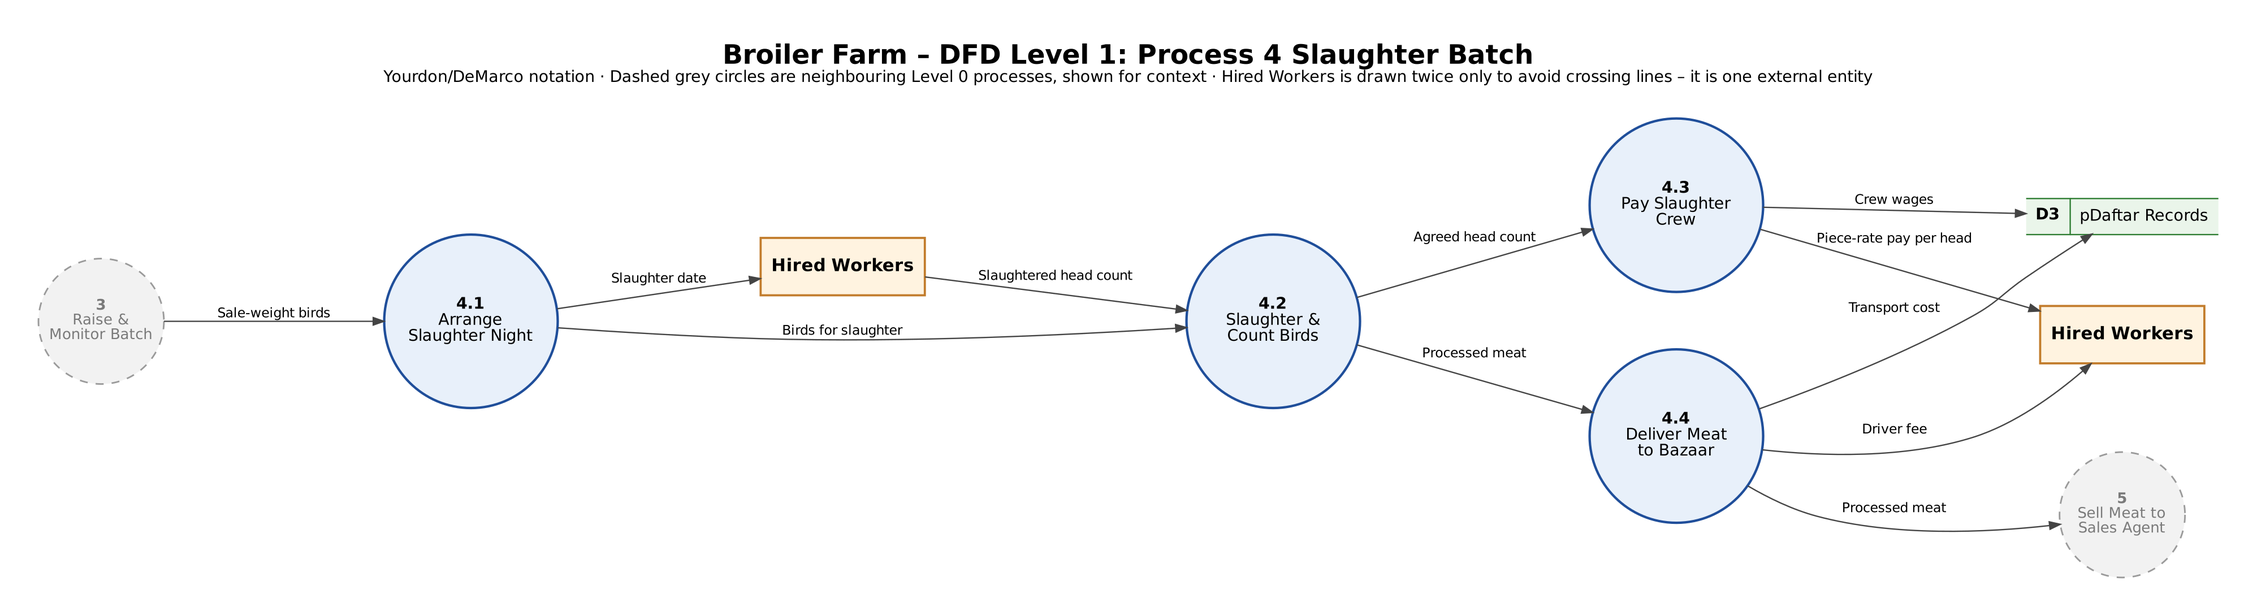
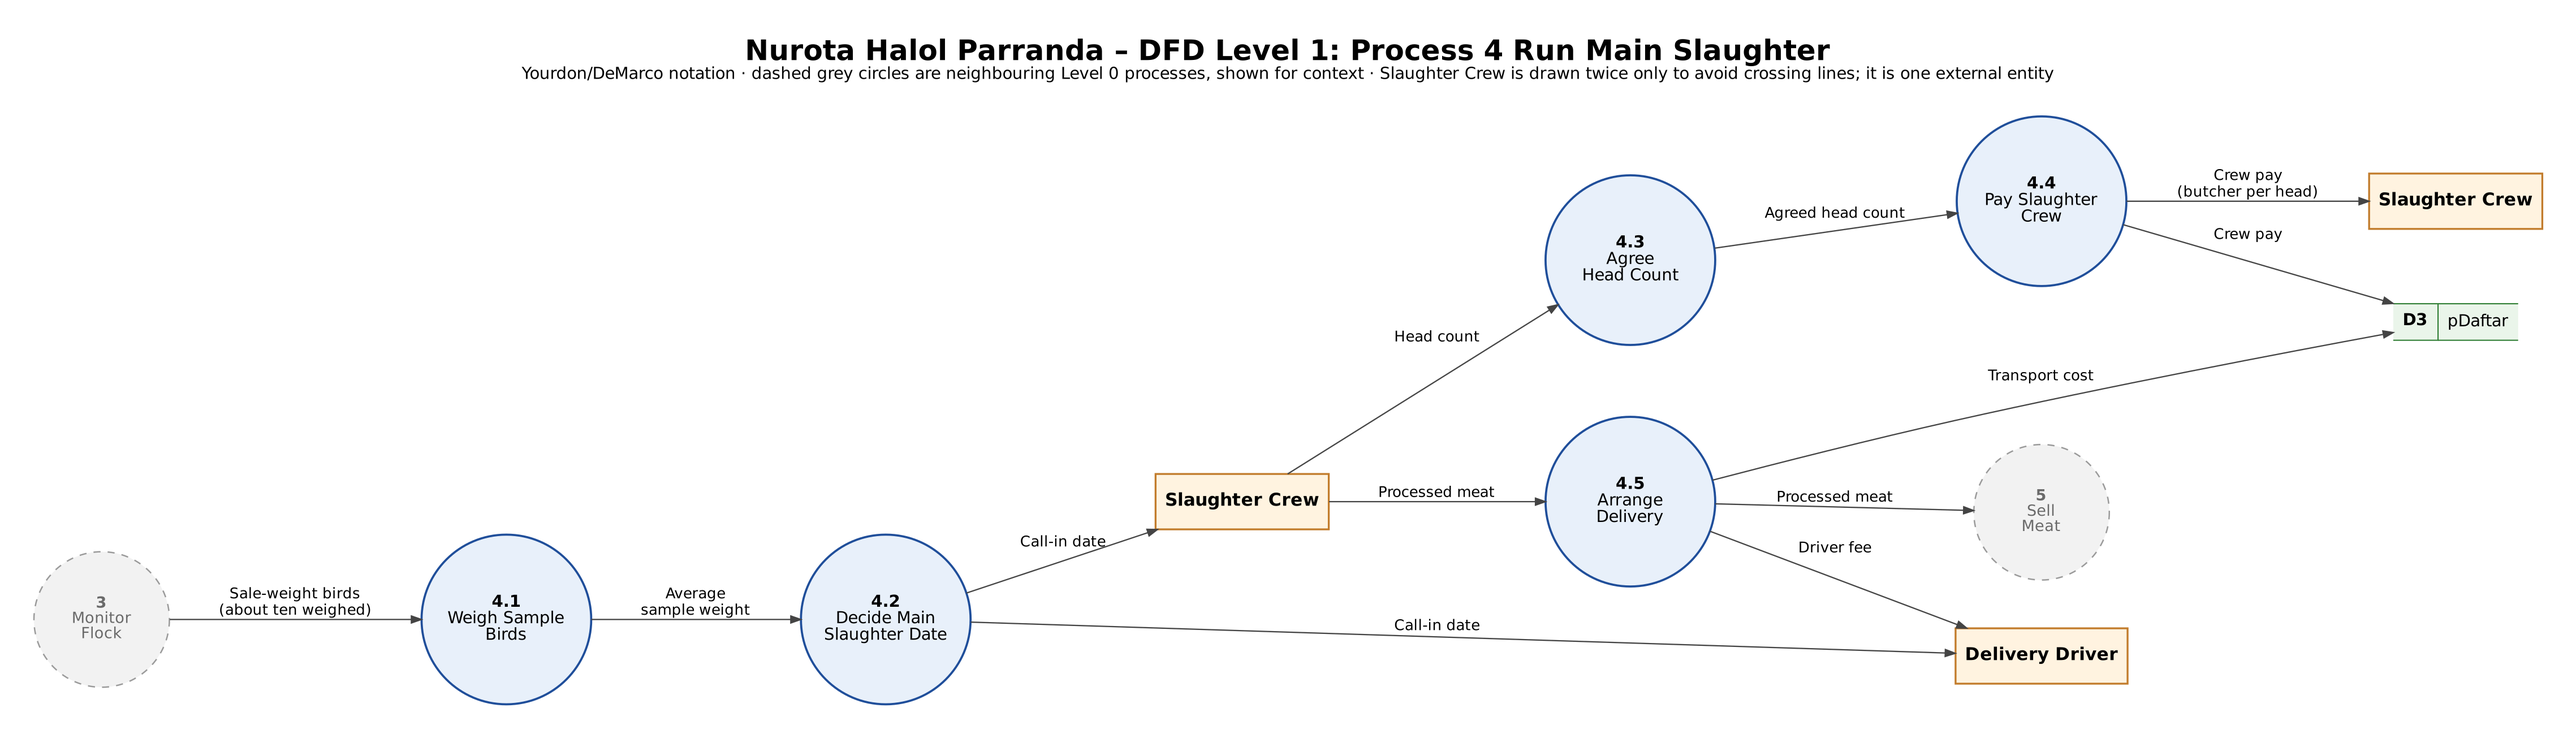
Update DFD and activity diagram to match business case and use case names

diff --git a/4-data-flow-diagram.md b/4-data-flow-diagram.md
@@ -1,39 +1,41 @@
 # Data Flow Diagram
 
-The diagrams below illustrate how data flows across the farm as it operates today. The farm serves as the system boundary. The processes are carried out by the director, permanent personnel, and a worker who registers weights at the bazaar. The chick provider, the feed supplier, the hired slaughter crew and driver, and the sales agent are all outside the farm and appear as separate organisations.
+The diagrams show how Nurota Halol Parranda handles its data today, without any computer system. The boundary is the farm itself. The Director and the Workers carry out every process inside it, so neither appears as an external entity. Outside are the two suppliers, the Slaughter Crew and the Delivery Driver who are hired for each slaughter, and the three buyers: the Bazaar Agent, the Nurata Seller and the Shop Customer. The Delivery Driver is not an actor in the use case diagram, but he is drawn here because the farm sends him a call-in date and a fee.
 
-The farm keeps its records in five places: the director's paper notebook, camera footage, the pDaftar app on his phone, weight images received over Telegram, and the farm's own weight tally.
+The farm's records end up in five places: the Director's paper notebook, the camera footage, the pDaftar app on his phone, the weight photos the Bazaar Agent sends on Telegram, and the tally a Worker keeps while the meat is weighed at the bazaar. None of them is linked to another.
 
 ## Level 0
 
-![DFD Level 0 of the broiler farm](diagrams/dfd-level0.png)
+![DFD Level 0 of the farm's current system](diagrams/dfd-level0.png)
 
-*Figure 5.1. DFD Level 0 of the broiler farm (current system)*
+*Figure 4.1: DFD Level 0, the farm's current system*
 
-All financial information ends up in pDaftar (D3). Processes 1, 2, and 4 write costs, process 5 writes revenue, and process 6 reads both to calculate a batch's profit. Mortality and feed usage are only recorded in the paper notebook (D1) and never factored into the profit calculation; thus, the farm cannot determine the cost per bird or how efficiently feed is used. The head count from the slaughter team determines how much the crew is paid, although it is not recorded elsewhere.
+Every money figure goes into pDaftar (D3). Processes 1, 2 and 4 add costs, process 5 adds sales income, and process 6 reads both back to get the profit of a batch. Chick deaths and feed use go only into the notebook (D1), and no process reads them back, so they never reach the profit figure and the farm cannot see the cost per bird or how much feed a batch really used. This matches the business case, where decisions rest on the Director's experience rather than on these records. The head count that sets the crew's pay comes in from the crew and is turned straight into a payment without being written down.
 
-Process 6 has no Level 1 diagram because it is a single calculation: it reads costs and revenue from pDaftar and writes the batch profit back.
+Processes 1, 2 and 6 are not broken down further. Each order is a single exchange with one supplier, paid by bank transfer under the standing contract, and process 6 is one calculation made from figures already in pDaftar.
 
-## Level 1: Process 3 Raise & Monitor Batch
+The early cull of sick chicks around day 25, the slaughter of about 4,000 birds around day 35–40 and the small client orders of 50–100 birds are not drawn. The farm has not yet confirmed what each of these records or who buys those birds, so only the main slaughter is modelled.
+
+## Level 1: Process 3 Monitor Flock
 
 ![DFD Level 1 for process 3](diagrams/dfd-level1-process3.png)
 
-*Figure 5.2. DFD Level 1, Process 3 Raise & Monitor Batch*
+*Figure 4.2: DFD Level 1, Process 3 Monitor Flock*
 
-Workers inspect the residences in person, while the director examines them via cameras (3.2). Workers inform the director how many chicks died, and he records the information in his notebook (3.3). He records feed usage in the same notebook (3.4). The mortality record so relies on one person writing down what he was informed.
+Workers check each house every 15–30 minutes (3.1). When one of them finds a dead chick he tells the Director, who writes it in the notebook (3.3), and feed use goes into the same notebook (3.4). The death count passes through two people and a spoken message before it is written down, which is why the business case calls it approximate. The cameras record the houses (3.2), but the footage stays in the monitoring app and feeds nothing else, so it adds no record the farm can use later.
 
-## Level 1: Process 4 Slaughter Batch
+## Level 1: Process 4 Run Main Slaughter
 
 ![DFD Level 1 for process 4](diagrams/dfd-level1-process4.png)
 
-*Figure 5.3. DFD Level 1, Process 4 Slaughter Batch*
+*Figure 4.3: DFD Level 1, Process 4 Run Main Slaughter*
 
-The director determines the slaughter date (4.1). The hired staff slaughters the birds and records how many are processed (4.2). They are paid per head (4.3), and a driver hired for the nite transports the meat to the bazaar for a one-time price (4.4). Crew wages and transportation costs are entered into pDaftar separately, however the head count for the wages is only agreed upon verbally.
+Process 4 brings together four use cases from section 2: Decide Main Slaughter Date, Run Main Slaughter, Pay Slaughter Crew per Head and Arrange Delivery. The Director weighs about ten birds (4.1) and uses their average to decide whether to call in the crew and the driver now or wait three to five more days (4.2). After the session the crew reports how many birds it slaughtered, the Director accepts that count verbally (4.3) and pays the crew from it, with the butcher paid per head (4.4). Only the payment reaches pDaftar. The count behind it is never recorded, so a wrong count cannot be checked later. The driver's fee for taking the meat to the bazaar (4.5) goes into pDaftar as well.
 
-## Level 1: Process 5 Sell Meat to Sales Agent
+## Level 1: Process 5 Sell Meat
 
 ![DFD Level 1 for process 5](diagrams/dfd-level1-process5.png)
 
-*Figure 5.4. DFD Level 1, Process 5 Sell Meat to Sales Agent*
+*Figure 4.4: DFD Level 1, Process 5 Sell Meat*
 
-The sales representative is a self-employed merchant. The farm only has one buyer instead of seven or nine since he purchases the meat for slightly less than the bazaar price and resells it to his own vendors. A farm worker records each scale reading as he weighs the meat (5.3, D5). On Telegram, the agent posts a picture of his own totals (5.4, D4). To determine the revenue, he reports in pDaftar (5.6), the director multiplies the confirmed kilos by the agreed price after comparing the two totals (5.5). This comparison is the only check the farm has on the agent's figures.
+The meat goes to three buyers (5.2), and the farm treats them very differently. The Bazaar Agent, an independent middleman who resells to seven to nine other sellers, takes the largest share. His price per kg is agreed verbally at that day's bazaar rate (5.1). While he weighs the meat, a Worker writes down every reading (5.3), and the agent later sends his own totals as a photo on Telegram (5.4). The Director compares the two totals (5.5) and only then works out what the agent owes, the confirmed kilograms times the agreed price (5.6). The Nurata Seller and the Shop Customer pay the farm directly, and that income goes into pDaftar with the rest (5.7). The farm has not yet confirmed how it measures the meat these two take.

diff --git a/5-activity-diagram.md b/5-activity-diagram.md
@@ -1,13 +1,13 @@
 # Activity Diagram
 
-One batch's slaughter and sale are depicted in the diagram. This process was selected because it involves four people, including three decisions, two of which require the flow to repeat earlier steps—and involves some parallel work.
+The diagram follows the main slaughter of one batch and the sale of its meat to the Bazaar Agent. Five parties take part, there are three decisions, two of which send the flow back to an earlier step, and the work splits into parallel branches twice. Sales to the Nurata Seller and the Shop Customer are left out because the farm has not yet described those steps. The Delivery Driver has his own lane even though he is not an actor in section 2, because the meat cannot reach the bazaar without him.
 
-![Activity diagram: slaughter and sale of a batch](diagrams/activity-slaughter-and-sale.png)
+![Activity diagram: main slaughter and sale to the Bazaar Agent](diagrams/activity-slaughter-and-sale.png)
 
-*Figure 6.1. Activity diagram: slaughter and sale of a batch*
+*Figure 5.1: Activity diagram, main slaughter and sale to the Bazaar Agent*
 
-Determining if the batch is ready is the first step in the procedure. The director weighs a random sample of birds, determines the average weight based on experience, and verifies the age of the chicks. The batch continues to be raised and is tested again later if it is not yet at sale weight.
+The decision to slaughter rests on about ten birds weighed by the Director. Their weights are not written down anywhere, so a misjudged sample cannot be traced afterwards, and it means either paying for extra days of feed or selling birds below weight.
 
-The director notifies the driver and crew when the batch is prepared for slaughter. After slaughtering, scalding, plucking, and cleaning the birds, the staff calculates how many were processed. From this point on, two things happen simultaneously: the meat is transported to the bazaar while the director records the earnings and pays each member of the team. A farm worker simultaneously records each weighing while the agent weighs the meat at the bazaar. After that, the agent provides a Telegram photo of his totals.
+Once the crew has finished, two things happen at the same time, and both rely on trust rather than records. The Director pays the crew, the butcher per head, on a count he only hears, while the meat leaves for Navoi bazaar. There the price per kg is agreed verbally at the day's bazaar rate, and the agent and a Worker weigh the meat in parallel, which is the second fork. The Worker's tally is the only point in this process where the farm checks a figure given to it by someone outside.
 
-The director determines the amount owed in kilos multiplied by the agreed-upon price after comparing the agent's total with the farm's tally and paying the driver. Both cash and bank transfer payments are documented in pDaftar together with the cost of transportation. The cycle continues till there are no more birds in the dwellings because the number of slaughter nights is not set.
+The Director cannot work out what he is owed until the agent's photo arrives, so the money for each session waits on the agent. Whether the agent pays in cash or by bank transfer, the sale is recorded in pDaftar together with the transport cost. One session handles 1,000–1,200 birds, so the cycle repeats until no birds are left in the houses, and the profit of the batch is only known after the last session, too late to change anything during the slaughter.
